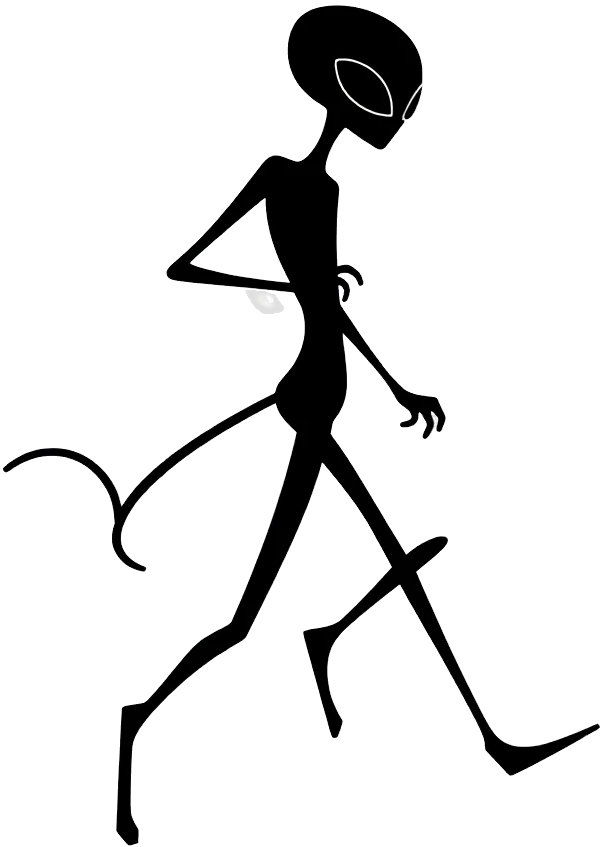
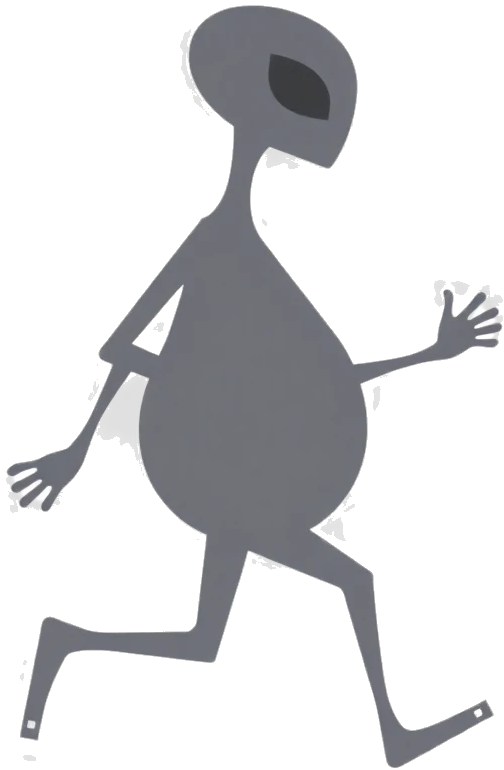
v2: movement is a bit to fast; please fix' also lets make teh irst region blue like the original and lets regen our alien character to be shorter plpump and more like the original run character

diff --git a/src/Constants.js b/src/Constants.js
@@ -1,16 +1,16 @@
 export const TILE_SIZE = 4;
 export const TUNNEL_RADIUS = 7; // Distance from center to wall
 export const VIEW_DISTANCE = 30; // How many tile rows ahead we generate
-export const PLAYER_SPEED = 0.4;
-export const JUMP_FORCE = 0.5;
-export const GRAVITY = 0.025;
-export const LATERAL_SPEED = 0.25;
+export const PLAYER_SPEED = 0.25;
+export const JUMP_FORCE = 0.45;
+export const GRAVITY = 0.022;
+export const LATERAL_SPEED = 0.18;
 export const WORLD_ROTATION_SPEED = 0.1;
 
 export const COLORS = {
-    background: 0xe0f7fa,
-    fog: 0xe0f7fa,
-    tile: 0xffffff,
+    background: 0x001a33,
+    fog: 0x001a33,
+    tile: 0x6688aa,
     player: 0x222222
 };
 

diff --git a/src/Player.js b/src/Player.js
@@ -11,7 +11,7 @@ export class Player {
         const map = new THREE.TextureLoader().load('alien.png');
         const material = new THREE.SpriteMaterial({ map: map, color: 0xffffff });
         this.mesh = new THREE.Sprite(material);
-        this.mesh.scale.set(1.5, 2.5, 1);
+        this.mesh.scale.set(1.5, 1.5, 1);
         this.scene.add(this.mesh);
 
         // Physics State

diff --git a/src/World.js b/src/World.js
@@ -15,7 +15,7 @@ export class World {
 
         this.material = new THREE.MeshLambertMaterial({ 
             map: tileTexture,
-            color: 0xaaaaaa
+            color: COLORS.tile
         });
 
         // Use InstancedMesh for performance
